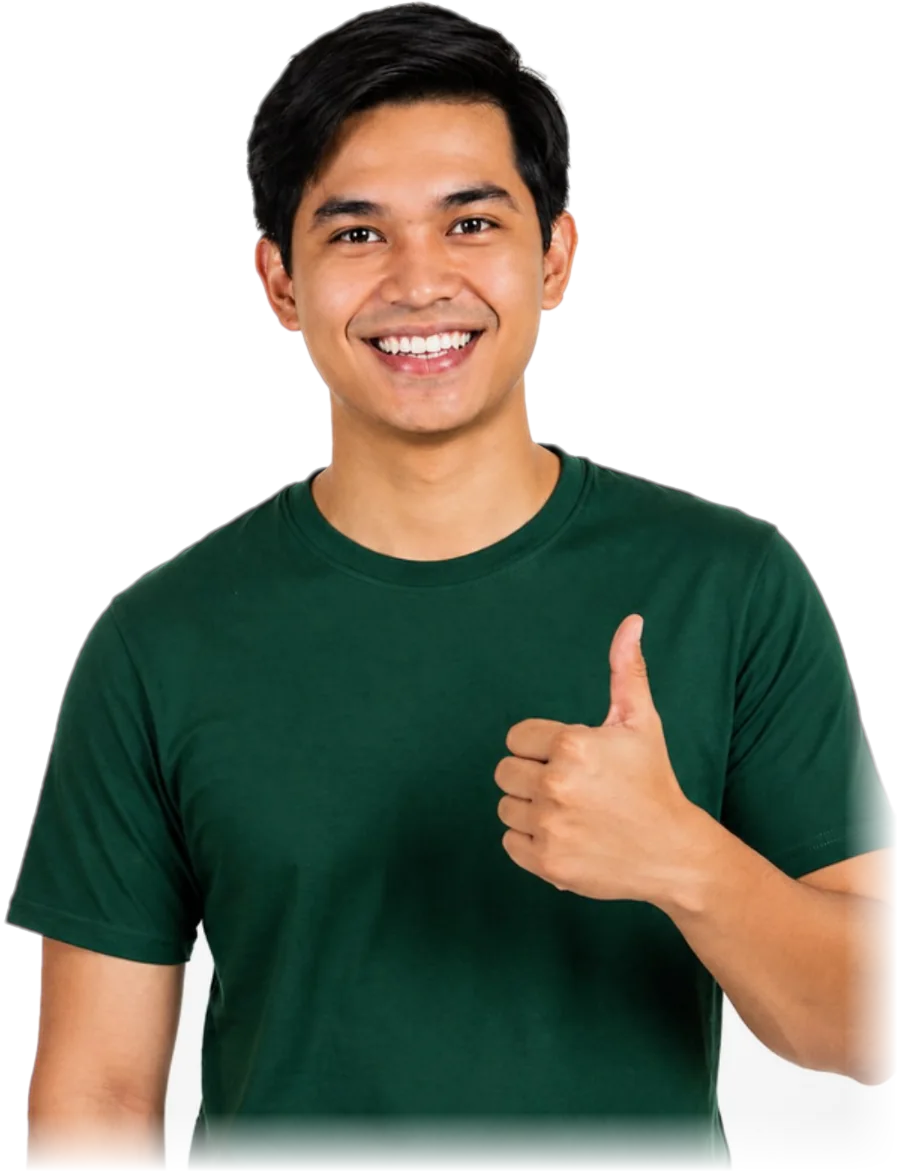
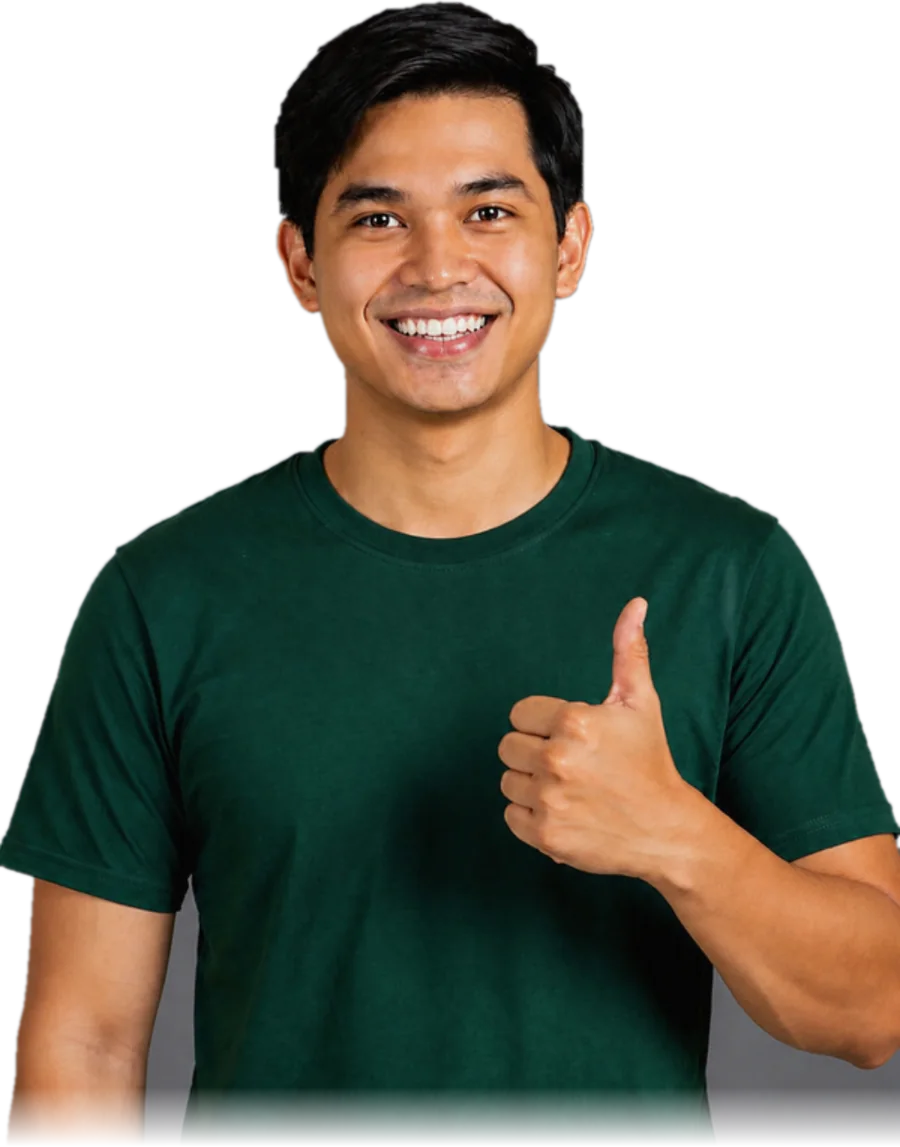
Regenerate all cut-out people with full arms and clean edges
- All eight people regenerated on a grey studio background with arms
  fully in frame (cropped only at the waist) and flat, non-glowing light.
- New cutout follows the background's shading, so no white outline;
  edges colour-corrected for dark and light sections.
- Remove the sage card behind header people; Services header shows two
  people side by side; people on Services panels stand behind the app
  windows; badges moved clear of them.
- 'We match you with' is now a proper heading.

Claude-Session: https://claude.ai/code/session_01WxiEpBbYd9knDzcaHARf4X

diff --git a/index.html b/index.html
@@ -191,8 +191,9 @@ nav .nav-cta:hover,nav .nav-cta[aria-current="page"]{color:var(--navy);backgroun
 .avatars span:hover{transform:translateY(-4px)}
 .pills{display:flex;flex-wrap:wrap;gap:8px;margin-top:18px}
 .pills span{background:var(--leaf-soft);color:var(--leaf);font-weight:700;padding:6px 14px;border-radius:999px;font-size:.9rem}
-.matchrow{display:flex;flex-wrap:wrap;align-items:center;justify-content:center;gap:14px 24px;padding-block:0 clamp(24px,3.5vw,44px)}
-.mr-l{font:800 clamp(1.15rem,2vw,1.45rem) var(--display);color:var(--muted)}
+.matchrow{display:flex;flex-direction:column;align-items:center;gap:22px;padding-block:0 clamp(24px,3.5vw,44px)}
+.mr-l{font:900 clamp(1.9rem,3.6vw,2.8rem)/1 var(--display);color:var(--ink);text-align:center;position:relative;padding-bottom:14px}
+.mr-l::after{content:"";position:absolute;left:50%;bottom:0;width:64px;height:4px;border-radius:4px;background:var(--leaf);transform:translateX(-50%)}
 .mr-pills{display:flex;flex-wrap:wrap;justify-content:center;gap:12px}
 .mp{display:inline-flex;align-items:center;gap:10px;background:var(--surface);border:1px solid var(--line);border-radius:999px;padding:9px 18px 9px 9px;font:800 1.02rem var(--display);color:var(--ink);text-decoration:none;
   transform:rotate(var(--r));box-shadow:0 14px 26px -20px rgba(16,24,40,.55);animation:bob 3.4s ease-in-out infinite alternate;animation-delay:calc(var(--i)*.4s);transition:transform var(--t-mid) var(--ease),background var(--t-fast)}
@@ -409,12 +410,17 @@ nav .nav-cta:hover,nav .nav-cta[aria-current="page"]{color:var(--navy);backgroun
 .sp ul.inc svg{width:12px;height:12px;fill:none;stroke:currentColor;stroke-width:3.2;stroke-linecap:round;stroke-linejoin:round}
 @media (max-width:700px){nav a .hm{display:none}}
 .mockwrap.has-person{padding-top:clamp(40px,6vw,90px)}
-.sv-person{position:absolute;z-index:3;bottom:-4px;height:clamp(220px,26vw,330px);width:auto;max-width:none;pointer-events:none;-webkit-mask-image:linear-gradient(0deg,transparent,#000 10%);mask-image:linear-gradient(0deg,transparent,#000 10%)}
+.sv-person{position:absolute;z-index:0;bottom:-4px;height:clamp(220px,26vw,330px);width:auto;max-width:none;pointer-events:none;-webkit-mask-image:linear-gradient(0deg,transparent,#000 10%);mask-image:linear-gradient(0deg,transparent,#000 10%)}
 .has-person.r .sv-person{right:-4%}
 .has-person.l .sv-person{left:-4%}
-.has-person.r .mock{margin-right:24%}
+.has-person .mock{position:relative;z-index:1}
+.has-person.r .mock{margin-right:30%}
+.mockwrap .mock-chip{z-index:4}
+.has-person.l .mock-chip{left:auto!important;right:-12px!important;bottom:-18px!important;top:auto!important}
+.has-person.r .mock-chip{right:auto!important;left:-12px!important;top:auto!important;bottom:-18px!important}
+@media (max-width:900px){.has-person.l .mock-chip,.has-person.r .mock-chip{left:auto!important;right:8px!important}}
 .has-person .cal .post em{font-size:0;width:12px;height:12px;padding:0}
-.has-person.l .mock{margin-left:24%}
+.has-person.l .mock{margin-left:30%}
 @media (max-width:900px){.sv-person{top:0;bottom:auto;height:190px}.has-person.r .mock,.has-person.l .mock{margin:0}.has-person.r .sv-person{right:8px}.has-person.l .sv-person{left:8px}.mockwrap.has-person{padding-top:180px}}
 /* ---------- CALL PANEL ---------- */
 .call{background:var(--leaf-soft);display:grid;grid-template-columns:minmax(0,.85fr) minmax(0,1.15fr);gap:clamp(24px,4vw,48px);align-items:center;padding:clamp(24px,4vw,56px)}
@@ -476,14 +482,20 @@ nav .nav-cta:hover,nav .nav-cta[aria-current="page"]{color:var(--navy);backgroun
 .pillar h3{font-size:clamp(1.7rem,2.8vw,2.4rem);color:#fff;line-height:1.02}
 .pillar p{color:rgba(243,247,240,.85);max-width:36ch}
 
-.ph-person{position:relative;height:clamp(300px,32vw,420px);width:min(100%,380px);margin-inline:auto;border-radius:28px;overflow:hidden;
-  background:linear-gradient(160deg,#DCE9CF 0%,#C9DDB4 55%,#B3CC98 100%);box-shadow:0 30px 60px -30px rgba(0,0,0,.55)}
-.ph-person img{position:absolute;bottom:0;left:50%;transform:translateX(-50%);height:94%;width:auto;max-width:none}
+.ph-person{position:relative;height:clamp(300px,32vw,420px);width:min(100%,420px);margin-inline:auto;
+}
+.ph-person img{position:absolute;bottom:0;left:50%;transform:translateX(-50%);height:100%;width:auto;max-width:none}
 .ph-person.how-person img{left:58%}
 .ph-ring{display:none}
 .ph-person .badge{z-index:2;animation:none}
 .how-person{height:clamp(260px,26vw,340px)}
 @media (max-width:860px){.ph-person{height:280px}}
+.sv-grid{display:grid;grid-template-columns:minmax(0,1.15fr) minmax(0,.85fr);gap:clamp(16px,3vw,40px);align-items:end}
+.crowd{position:relative;height:clamp(300px,30vw,420px);display:flex;align-items:flex-end;justify-content:center;gap:0;margin-bottom:calc(-1 * clamp(64px,9vw,120px))}
+.crowd img{height:100%;width:auto;max-width:52%;object-fit:contain;object-position:bottom}
+.crowd .c-l{margin-right:-6%}
+.crowd .badge{position:absolute;z-index:3}
+@media (max-width:860px){.sv-grid{grid-template-columns:1fr}.crowd{height:260px}}
 /* ---------- ABOUT ---------- */
 .founder{display:grid;grid-template-columns:auto minmax(0,1fr);gap:clamp(20px,4vw,44px);align-items:start;max-width:900px}
 @media (max-width:700px){.founder{grid-template-columns:1fr}}
@@ -710,7 +722,7 @@ footer{padding-block:56px 40px;font-size:.95rem}
   </div>
 
   <div class="wrap matchrow">
-    <p class="mr-l">We match you with</p>
+    <h2 class="mr-l">We match you with</h2>
     <div class="mr-pills">
       <a class="mp" href="#services-va" style="--r:-3deg;--i:0"><span class="mi"><svg viewBox="0 0 24 24"><rect x="3" y="4" width="18" height="17" rx="2"/><path d="M3 9h18M8 2v4M16 2v4M8 14h3"/></svg></span>Virtual Assistants</a>
       <a class="mp" href="#services-content" style="--r:2deg;--i:1"><span class="mi"><svg viewBox="0 0 24 24"><path d="M4 20h4L19 9a2.8 2.8 0 0 0-4-4L4 16v4zM13.5 6.5l4 4"/></svg></span>Content Creators</a>
@@ -836,7 +848,8 @@ footer{padding-block:56px 40px;font-size:.95rem}
 <!-- ================= SERVICES ================= -->
 <section class="view" id="v-services" data-view="services" hidden>
   <div class="forest band">
-    <div class="wrap sv-head">
+    <div class="wrap sv-head sv-grid">
+      <div>
       <h1 style="font-size:clamp(2.8rem,7vw,5.4rem);font-weight:900;letter-spacing:-.03em;line-height:.95;max-width:14ch">Everything we take off your plate</h1>
       <p class="lede muted" style="margin-top:20px">Five ways to grow your team. Pick one to jump to it.</p>
       <div class="mr-pills">
@@ -846,6 +859,12 @@ footer{padding-block:56px 40px;font-size:.95rem}
       <a class="mp" href="#services-bpo" style="--r:2.5deg;--i:3"><span class="mi"><svg viewBox="0 0 24 24"><path d="M4 12a8 8 0 0 1 14-5.3L20 9M20 4v5h-5M20 12a8 8 0 0 1-14 5.3L4 15M4 20v-5h5"/></svg></span>Process Specialists</a>
       <a class="mp" href="#services-contractors" style="--r:-2deg;--i:4"><span class="mi"><svg viewBox="0 0 24 24"><rect x="3" y="7" width="18" height="13" rx="2"/><path d="M8 7V5a2 2 0 0 1 2-2h4a2 2 0 0 1 2 2v2M3 13h18"/></svg></span>Independent Contractors</a>
     </div>
+      </div>
+      <div class="crowd" aria-hidden="true">
+        <img class="c-l" src="assets/photos/person-how.webp" alt="" width="886" height="1165">
+        <img class="c-r" src="assets/photos/person-hiring.webp" alt="" width="900" height="1147">
+        <span class="badge" style="left:0;top:14%"><i><svg viewBox="0 0 24 24"><path d="M5 12.5l4.5 4.5L19 7.5"/></svg></i>Matched to you</span>
+      </div>
     </div>
   </div>
   <div class="band" style="padding-block:14px clamp(48px,7vw,88px)">
